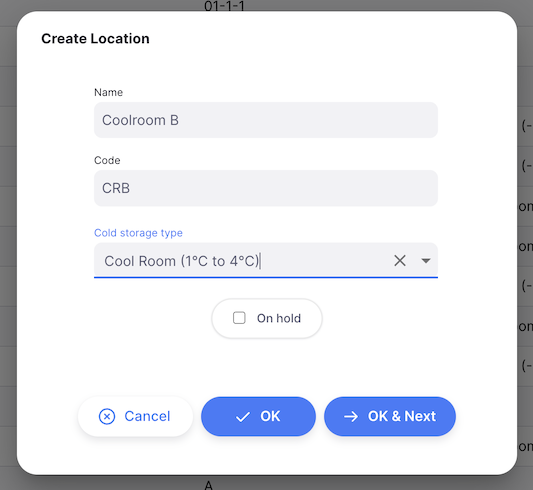
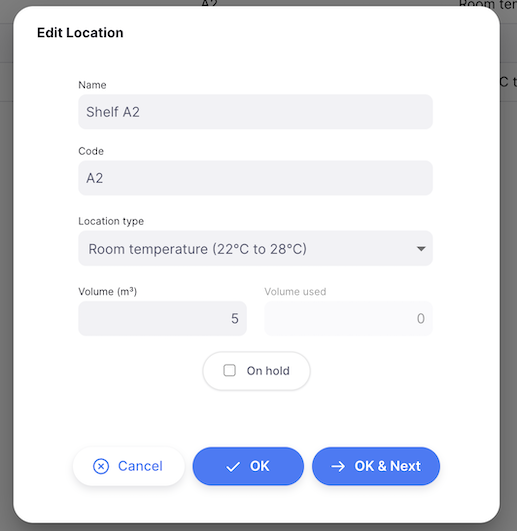
add volume/type to locations

diff --git a/content/docs/inventory/locations/index.md b/content/docs/inventory/locations/index.md
@@ -46,8 +46,9 @@ A window like this opens:
 
 1. **Name**: Enter the name of the new location
 2. **Code**: Enter a code for the new location
-3. **Cold storage type** (optional): Select the cold storage type. These options are configured as [Location Types](https://docs.msupply.org.nz/items:item_locations?s[]=location&s[]=type#location_types) on the mSupply Central Server.
-4. **On Hold** (checkbox): If you check this box, then goods in this location cannot be selected for issue to customers. Goods can be moved in to, and out, of the location but they cannot be issued from that location.
+3. **Location type** (optional): Select the location type. These [Location Types](https://docs.msupply.org.nz/items:item_locations?s[]=location&s[]=type#location_types) are configured on the mSupply Central Server.
+4. **Volume** (optional): Storage volume of the location in m³. `Volume used` shows the total volume of stock currently in the location.
+5. **On Hold** (checkbox): If you check this box, then goods in this location cannot be selected for issue to customers. Goods can be moved in to, and out, of the location but they cannot be issued from that location.
 
 <div class="tip">
 Putting a location on hold can be useful if:
@@ -69,3 +70,13 @@ To delete a location:
 2. The `Actions` footer will display at the bottom of the screen when a location is selected. It will display the number of locations selected and the actions which can be taken. Click `Delete`
 
 ![Delete location](images/delete-location.png)
+
+## Assigning locations to stock
+
+Stock can be assigned to a location when receiving or adjusting stock (i.e. during an Inbound Shipment, or during a Stocktake).
+
+When doing so, you'll be able to filter the locations based on available volume, so you can easily find a location that has enough space for your stock:
+
+![Location picker](images/location_picker.png)
+
+Also note that items can have a [restricted location type](https://docs.msupply.org.nz/items:item_basics:tab_storage?s[]=restricted&s[]=location&s[]=type#restricted_to) configured. When selecting a location for these items, only locations with the same type will be shown in the picker.
